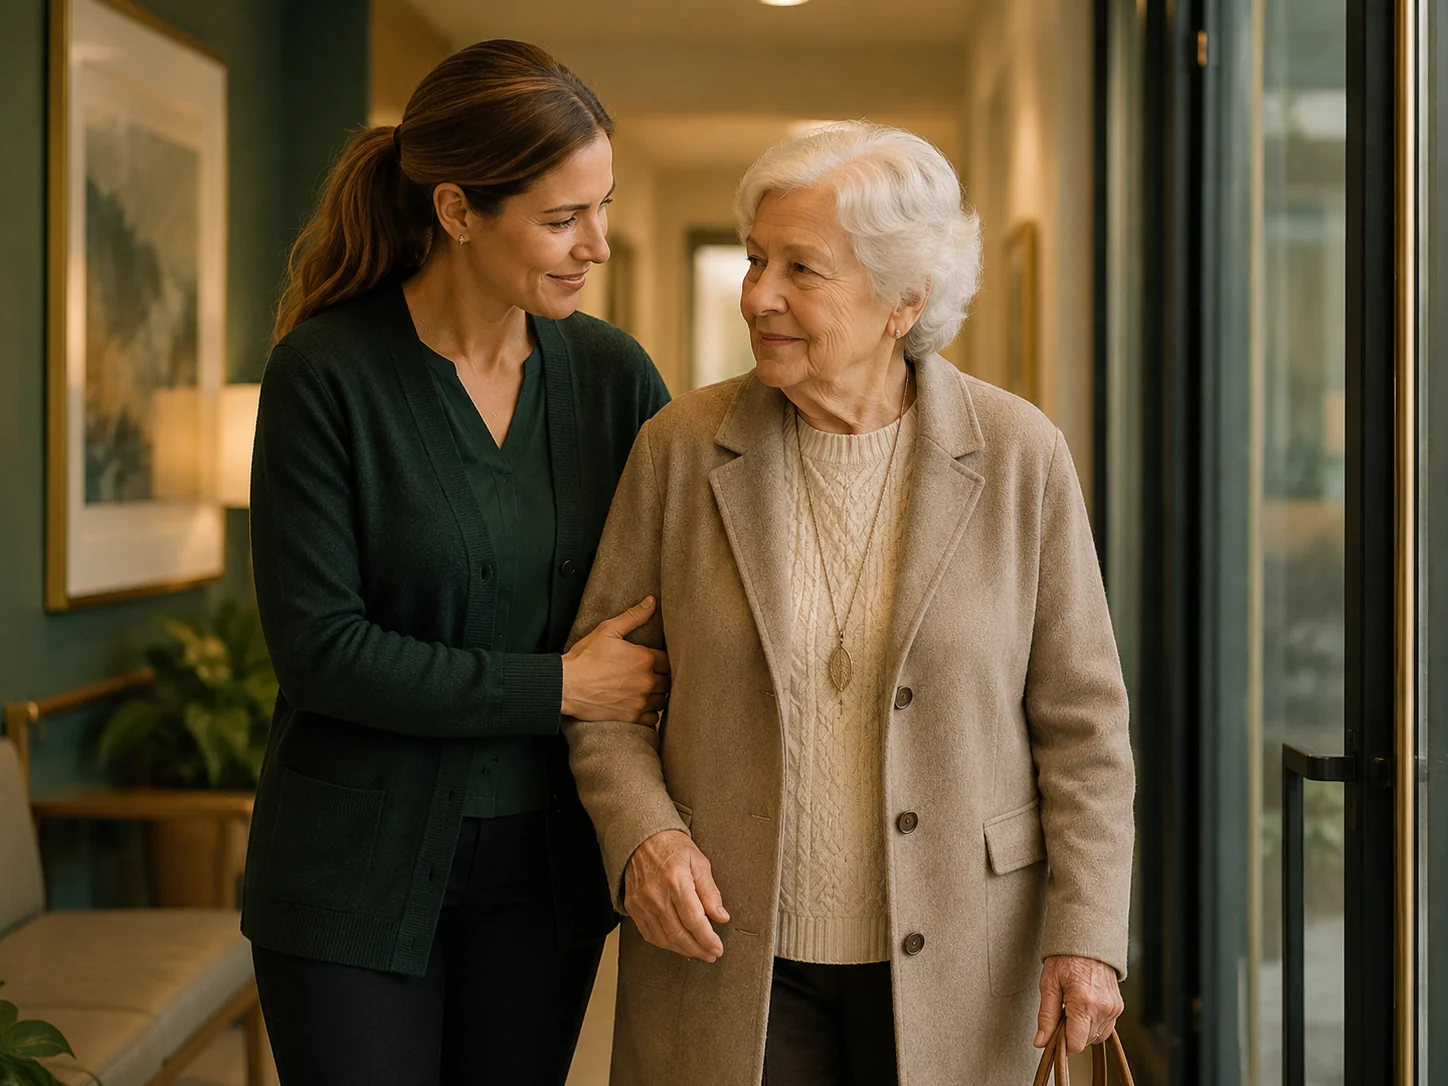
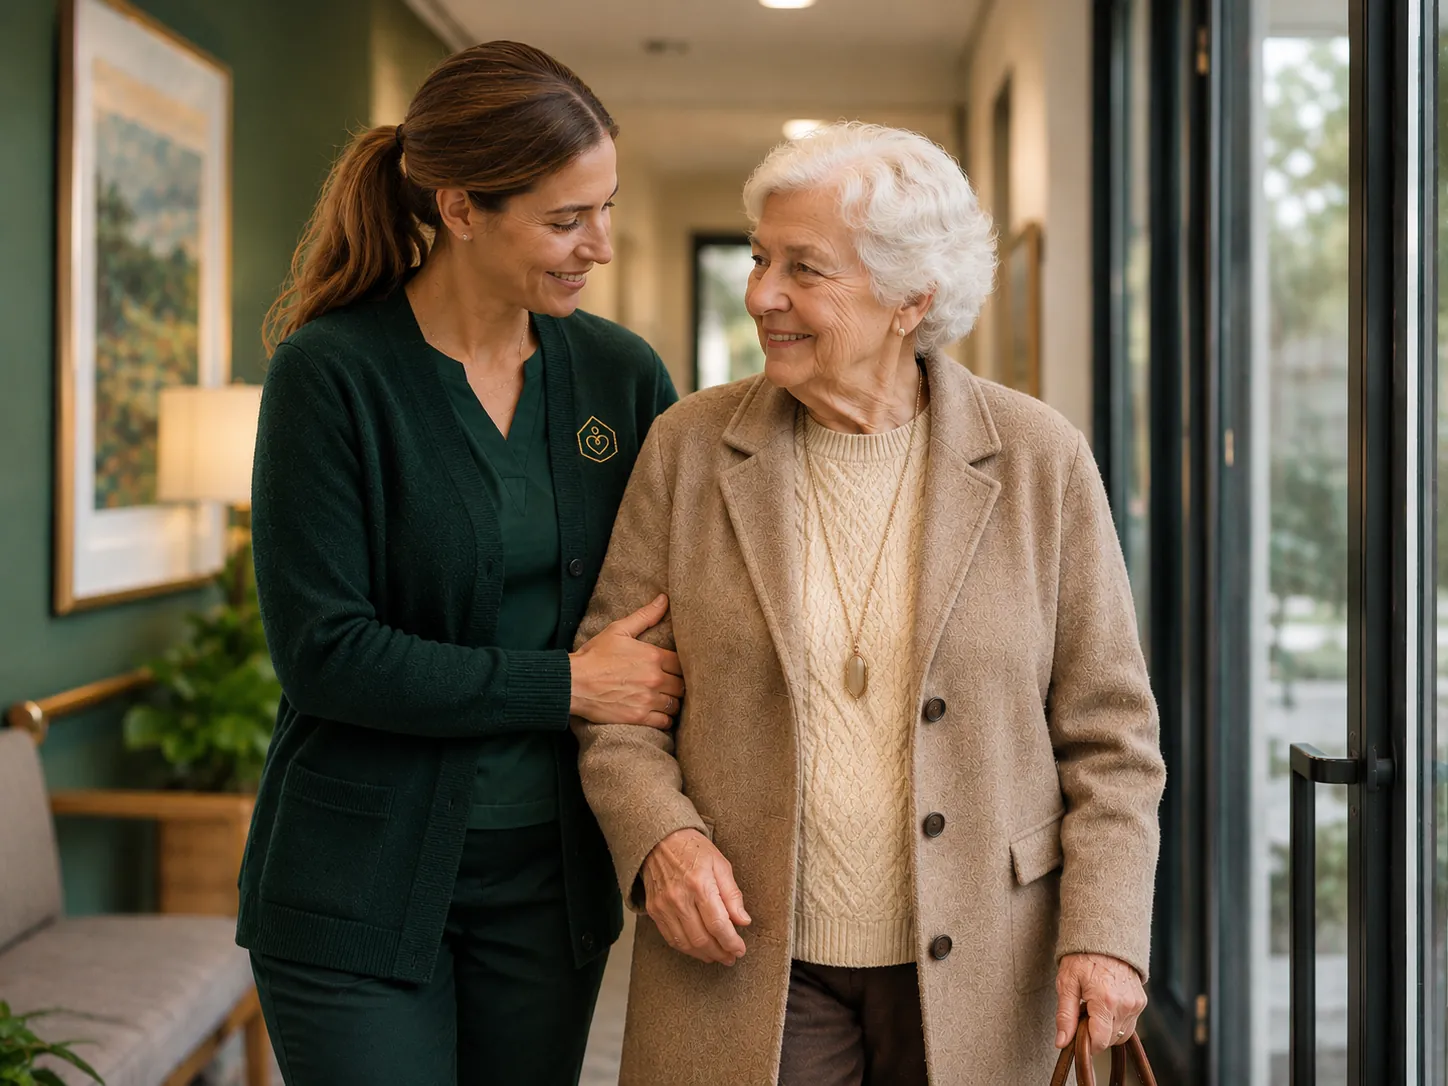
Novy obrazek doktor (Doprovod k lekari) jako WebP s ?v=2

diff --git a/app.js b/app.js
@@ -1438,7 +1438,7 @@ function initTheme(){applyTheme('dark');}
 /* mapování id služby → název obrázku (kde se liší) */
 const SVC_IMG={lekar:'doktor',domaci:'domacipece',pomoc:'pomocvdomacnosti',rehab:'Rehabilitace'};
 /* verze obrázku dlaždice — zvýšit při výměně obrázku (obrázky se cachují natrvalo) */
-const SVC_IMG_V={osobni:2};
+const SVC_IMG_V={osobni:2,lekar:2};
 /* hlavních 6 služeb na úvodní stránce */
 const MAIN_SERVICES=['osobni','lekar','domaci','nakupy','nocni','nemocnice'];
 function renderHome(){
